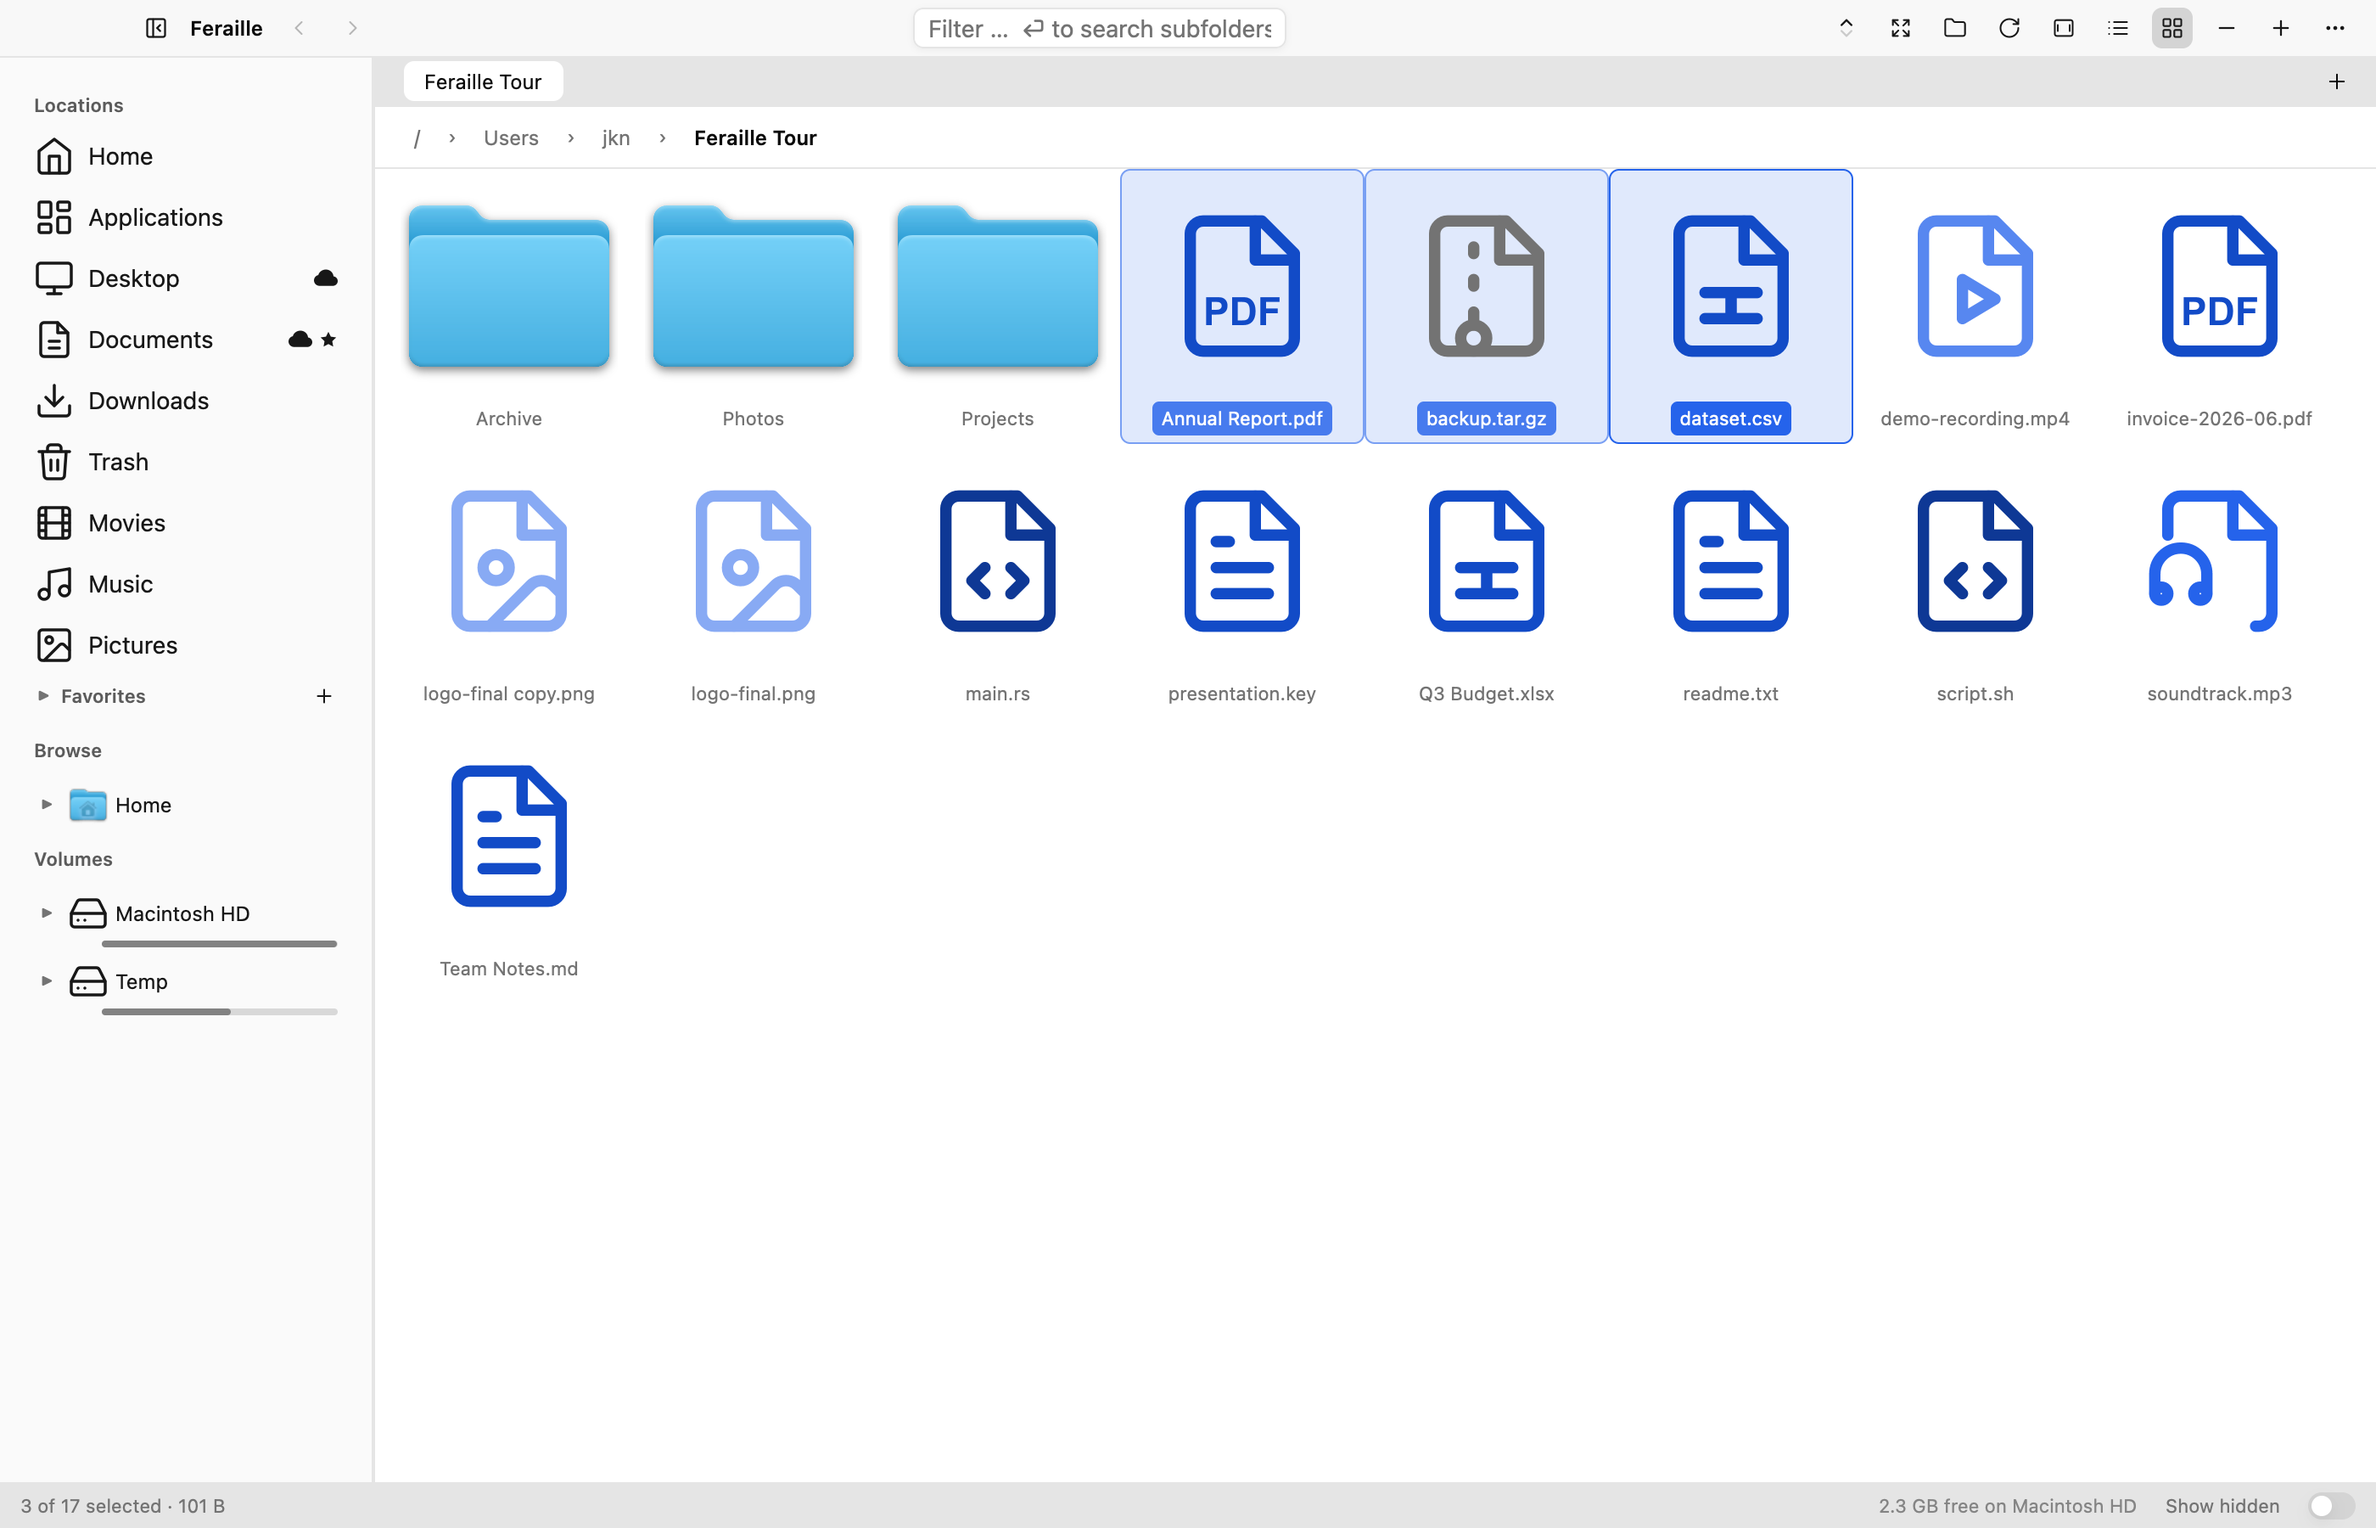
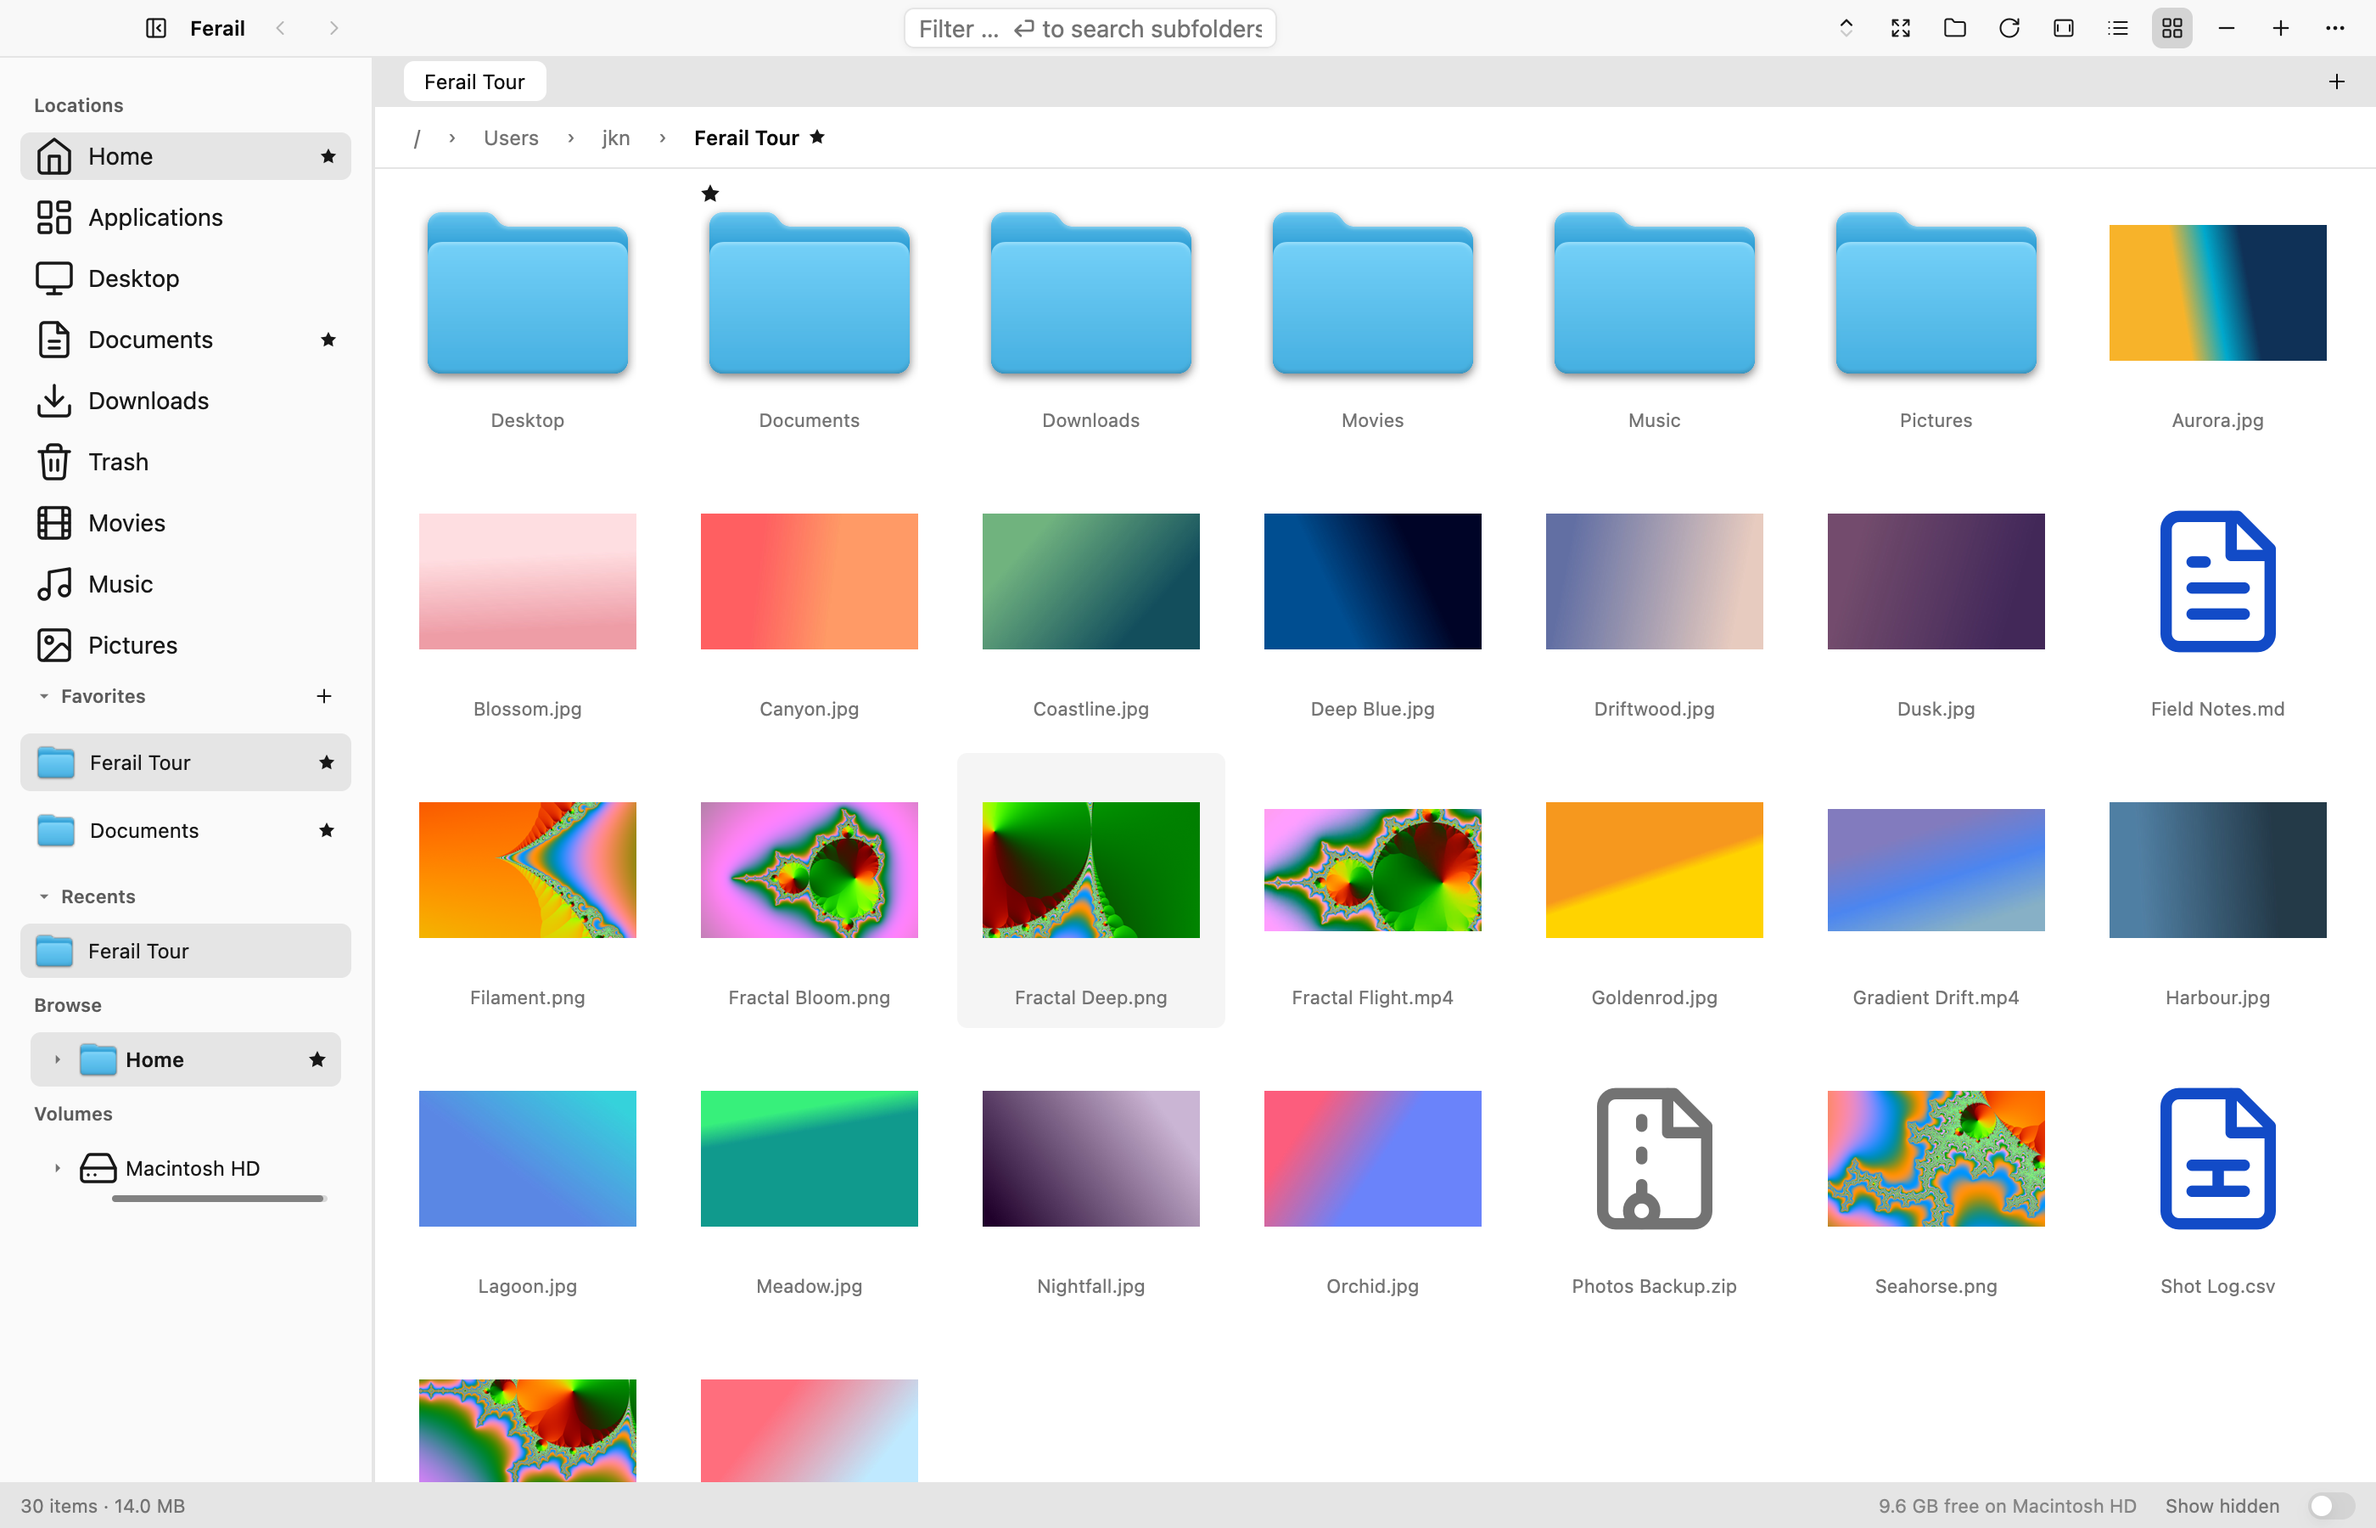
docs(readme): document archive integration and reshoot two tour images
Archives get a dedicated bullet, a mention in the lead paragraph, and a
row in the comparison table (Finder cannot browse in place; Explorer does
zip only).

Reshoot the icon-grid image so it actually shows thumbnails, and the
viewer image so it shows a real video frame with the grading panel and
video toolbar instead of a still app icon. Both rendered against a
generated sample fixture with a clean staging HOME, so no personal paths
or stale entries appear in the sidebar.

diff --git a/README.md b/README.md
@@ -2,8 +2,9 @@
 
 **A power-user file manager that never freezes.** Native, fast, written in
 Rust — with the tools you normally install separately built in: a duplicate
-finder, a disk-usage treemap you can export as HTML, magic-byte file
-identification, regex bulk rename, a media viewer, and a command palette.
+finder, a disk-usage treemap you can export as HTML, an archive browser that
+opens `.zip` / `.7z` / `.tar.*` in place, magic-byte file identification,
+regex bulk rename, a media viewer, and a command palette.
 
 ![Ferail main window](docs/images/tour-shell.png)
 
@@ -36,6 +37,13 @@ It targets the gap the default managers leave: **responsiveness under load** and
   **export the picture as embeddable HTML**), regex bulk rename with live
   preview, sticky-zoom media viewer, Cmd+K command palette — zero extra
   downloads.
+- **Archives open like folders.** Browse inside a `.zip`, `.7z` or `.tar.*`
+  without extracting first — a real sortable list with expandable folders and a
+  filter box, so a 5000-file archive opens as one folder to drill into. Extract
+  just what you selected, drag files in to add them, drag entries out to extract
+  them, and compress to ZIP / 7-Zip / TAR through a built-in engine that behaves
+  the same on every platform. It works on anything that *is* an archive
+  underneath, even without the extension — `.docx`, `.jar`, `.apk`.
 - **It learns your habits.** The Ant Trail heat-tints the folders you actually
   use and keeps them one click away.
 - **Everything is undoable.** Rename, bulk rename, move, copy, trash — Cmd+Z,
@@ -94,6 +102,7 @@ The ❌ rows are real gaps, not modesty.
 | **Content / magic detection** (sniff bytes, not extension) | ✅ | ❌ | ❌ | ⚠ MIME |
 | **Built-in disk usage** (treemap, HTML export) | ✅ | ❌ (3rd-party) | ❌ (3rd-party) | ⚠ separate app |
 | **Built-in duplicate finder** | ✅ hash funnel, clone/hard-link aware | ❌ (3rd-party) | ❌ (3rd-party) | ❌ (3rd-party) |
+| **Browse inside archives** (no extract-first) | ✅ zip, 7z, tar.* — browse, add, extract selected | ❌ extract only | ⚠ zip only | ✅ Ark / File Roller |
 | **Bulk rename** (regex + live preview) | ✅ | ❌ | ⚠ PowerRename (PowerToys) | ✅ KRename etc. |
 | **Predictive navigation** (visit heat) | ✅ Ant Trail | ❌ | ❌ | ❌ |
 | **Previews** | ✅ Quick Look + inline highlighted code | ✅ Quick Look | ⚠ preview pane | ✅ Dolphin strong |
